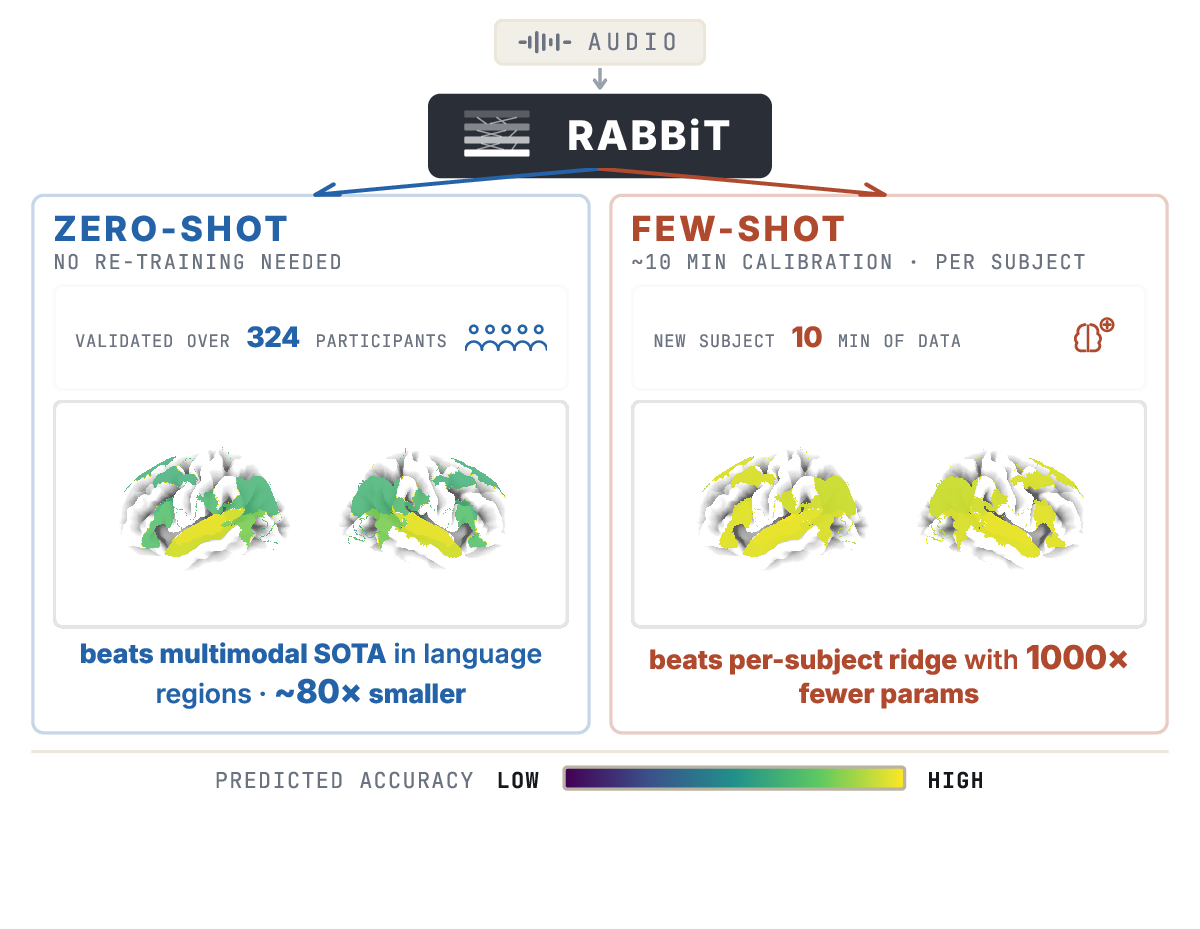
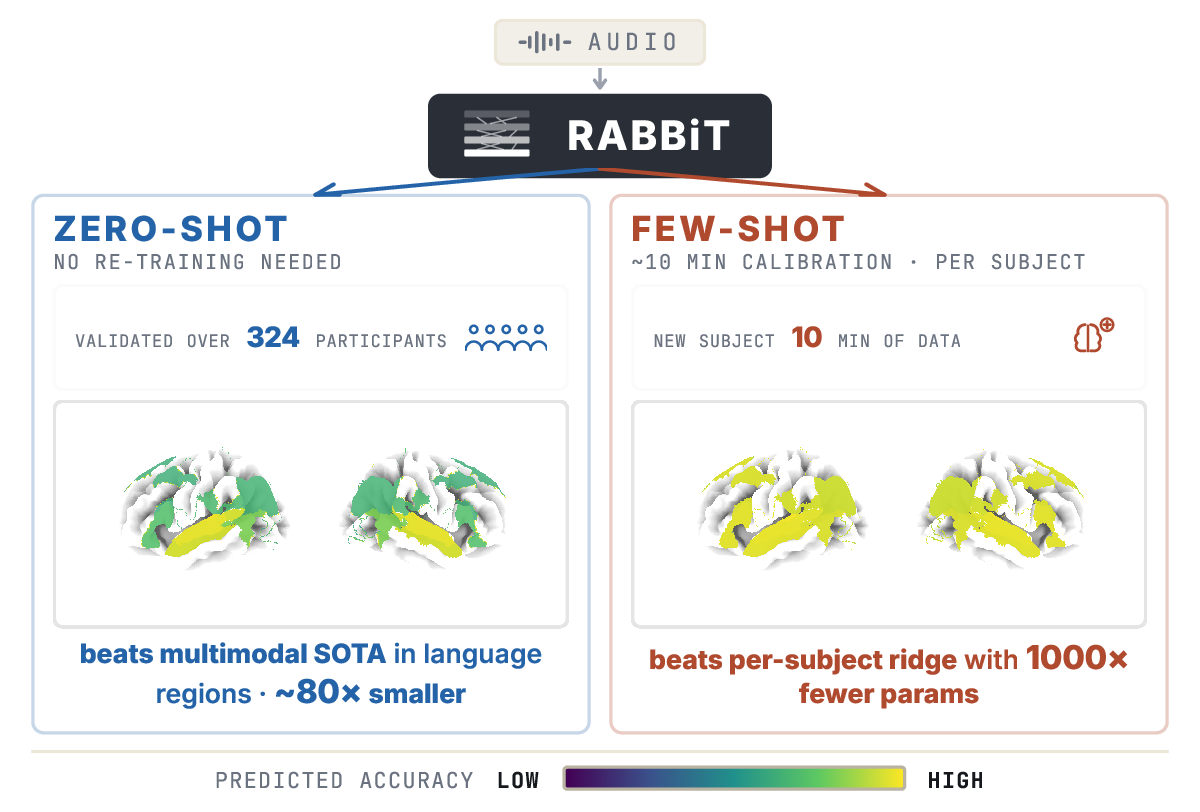
site: arXiv links; demo disclaimer chip (bottom-left); center figcaptions; crop teaser; remove ROI/mic hint

diff --git a/site/demo/index.html b/site/demo/index.html
@@ -88,13 +88,15 @@
     -webkit-mask-image: linear-gradient(180deg, transparent 0, #000 40%, #000 100%);
     mask-image: linear-gradient(180deg, transparent 0, #000 40%, #000 100%); }
   #caption.show { opacity:1; }
-  /* Tiny disclaimer under the transcript zone. Always visible (not tied to the
-     caption), with its own subtle chip so it stays readable over the brain. */
-  #capnote { position:absolute; left:50%; bottom:11px; transform:translateX(-50%);
-    max-width:88%; text-align:center; pointer-events:none;
-    font-size:10.5px; line-height:1.3; color:rgba(255,255,255,.92);
-    background:rgba(24,26,30,.5); padding:3px 10px; border-radius:8px;
-    backdrop-filter:blur(2px); }
+  /* Quiet disclaimer, pinned bottom-left as a small labelled chip with an info
+     icon — always visible, readable over the brain, out of the way. */
+  #capnote { position:absolute; left:14px; bottom:14px; max-width:min(340px,62%);
+    display:flex; align-items:center; gap:7px; pointer-events:none;
+    font-size:10.5px; line-height:1.35; color:var(--ink-soft);
+    background:rgba(253,253,251,.85); border:1px solid var(--line);
+    padding:6px 11px; border-radius:10px; backdrop-filter:blur(4px);
+    box-shadow:0 2px 6px rgba(0,0,0,.07); }
+  #capnote svg { flex:none; width:14px; height:14px; opacity:.6; }
   a:focus-visible, button:focus-visible, select:focus-visible {
     outline:2px solid var(--steel); outline-offset:2px; border-radius:6px; }
 
@@ -110,7 +112,7 @@
     #view { height:56vh; min-height:300px; }
     .panel { border-left:0; border-top:1px solid var(--line); }
     #caption { width:90%; font-size:14px; }
-    #capnote { max-width:92%; font-size:10px; }
+    #capnote { left:10px; bottom:10px; max-width:80%; font-size:10px; }
   }
 </style>
 </head>
@@ -129,7 +131,7 @@
 </header>
 
 <div class="wrap">
-  <div id="view"><canvas id="brain" role="img" aria-label="Rotatable 3D cortical surface (both hemispheres) showing RABBiT's predicted brain activation"></canvas><div id="caption" aria-live="polite"></div><div id="capnote">Transcript is from an independent captioning model — not RABBiT's input.</div></div>
+  <div id="view"><canvas id="brain" role="img" aria-label="Rotatable 3D cortical surface (both hemispheres) showing RABBiT's predicted brain activation"></canvas><div id="caption" aria-live="polite"></div><div id="capnote"><svg viewBox="0 0 24 24" fill="none" stroke="currentColor" stroke-width="2" stroke-linecap="round" stroke-linejoin="round" aria-hidden="true"><circle cx="12" cy="12" r="10"/><path d="M12 16v-4M12 8h.01"/></svg><span>Transcript is from an independent captioning model — not RABBiT's input.</span></div></div>
   <div class="panel">
     <div class="status" id="status" role="status" aria-live="polite">loading…</div>
     <div class="bar" id="barEl" role="progressbar" aria-label="Loading progress" aria-valuemin="0" aria-valuemax="100" aria-valuenow="0"><i id="prog"></i></div>
@@ -154,8 +156,7 @@
     <div class="legend"><span>deact.</span><span class="swatch"></span><span>act.</span></div>
 
     <p class="hint">Drag to rotate · scroll to zoom. Two halves = left/right
-      hemispheres (pial fsaverage6). Only the 30 language-network ROIs are
-      coloured. Mic needs <code>http://localhost</code> or HTTPS.</p>
+      hemispheres (pial fsaverage6).</p>
 
     <p class="panel-back"><a href="../">← Back to the RABBiT overview</a></p>
   </div>

diff --git a/site/index.html b/site/index.html
@@ -160,7 +160,7 @@
   <!-- Teaser figure — below the numbers band -->
   <div class="container" style="padding: 0 1.6rem 3.2rem;">
     <figure class="hero-fig">
-      <img loading="eager" decoding="async" width="1200" height="929" src="assets/teaser.png?v=2" alt="RABBiT teaser: zero-shot and few-shot transfer regimes across 324 participants">
+      <img loading="eager" decoding="async" width="1200" height="812" src="assets/teaser.png?v=3" alt="RABBiT teaser: zero-shot and few-shot transfer regimes across 324 participants">
       <figcaption class="teaser-cap">
         <strong>No data from the participant (zero-shot):</strong> audio in, predicted speech-evoked fMRI out — for any new person, with nothing recorded from them.
         &nbsp;·&nbsp;

diff --git a/site/assets/style.css b/site/assets/style.css
@@ -767,7 +767,9 @@ figure.fig.bordered img { border: none; }
 }
 .figmedia.bordered img { border: none; }
 .figmedia .figcap {
-  margin: 0.8rem 0.2rem 0.1rem;
+  margin: 0.8rem auto 0.1rem;
+  max-width: 68ch;
+  text-align: center;
   font-size: 0.82rem;
   line-height: 1.5;
   color: var(--ink-mute);
